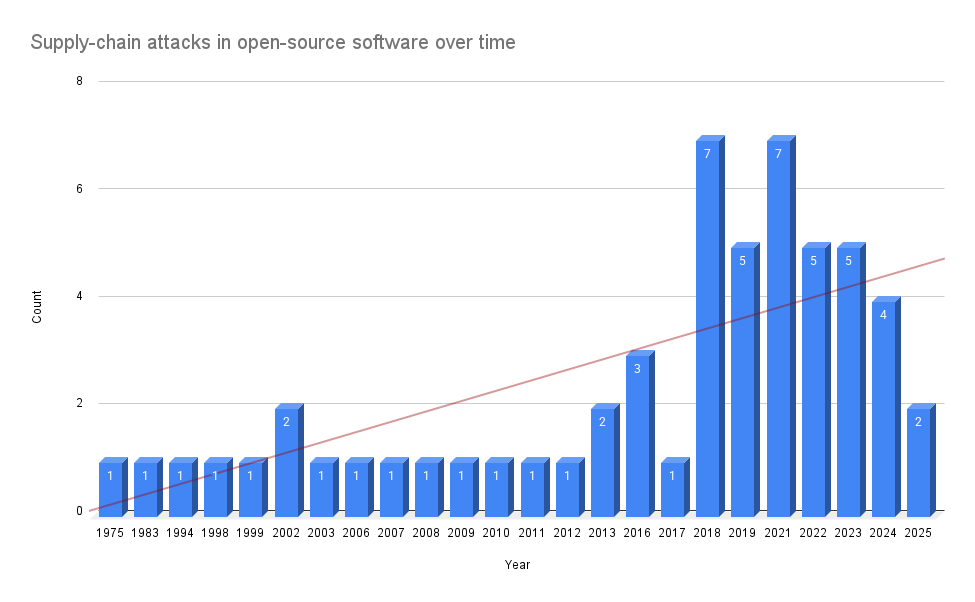
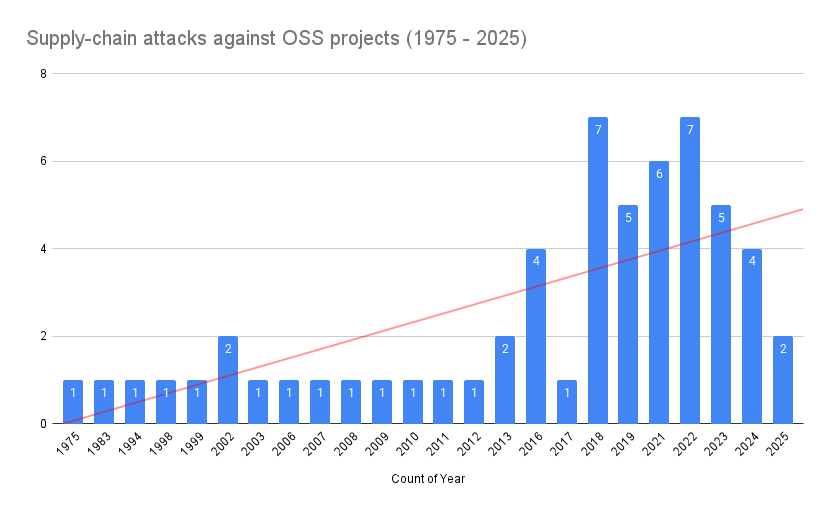
add charts

Changed region(s): [[0.0302, 0.2188, 0.965, 0.9688], [0.0603, 0.125, 0.965, 0.1562], [0.0302, 0.0625, 0.6333, 0.0938]]

diff --git a/README.md b/README.md
@@ -1,16 +1,30 @@
 # actual-supplychain-attacks
 
-Data about all known supply-chain attacks against software projects throughout history. This only includes cases that attacked a known product/project or its official distribution mechanisms (such as source code, offical mirror, container registry).
+Data about all known supply-chain attacks against software projects throughout history.
 
-We do not include attacks that involved random USB keys found on the sidewalk, typo-squatting attacks within random websites, unauthorized distribution mechanisms, or other types of social engineering attacks.
+This only includes cases that attacked a known product/project - or attacked its official distribution mechanisms (such as source code, offical mirror, container registry).
 
-## Pwn Count
+We do not include drive-by attacks that had no involvement with the official project, such as:
+
+- Random USB keys found on a sidewalk
+- Typosquatting attacks
+- Malware uploaded to random websites unrelated to the project/product
+- Social-engineering attacks that did not involve the project/product
+
+## OSS Pwn Count
 
 ![OSS supply-chain compromises over time](_research/chart.png)
 
-* 53 OSS projects
-* 56 incidents
+* 56 OSS projects
+* 59 incidents
 
+This should be within 5% of reality.
+
+## Proprietary Pwn Count
+
+* 42 products & incidents
+
+NOTE: Data on commercial software supply-chain attacks is very limited. This number represents what is almost certainly a severe undercount.
 
 ## PR's welcome!
 
